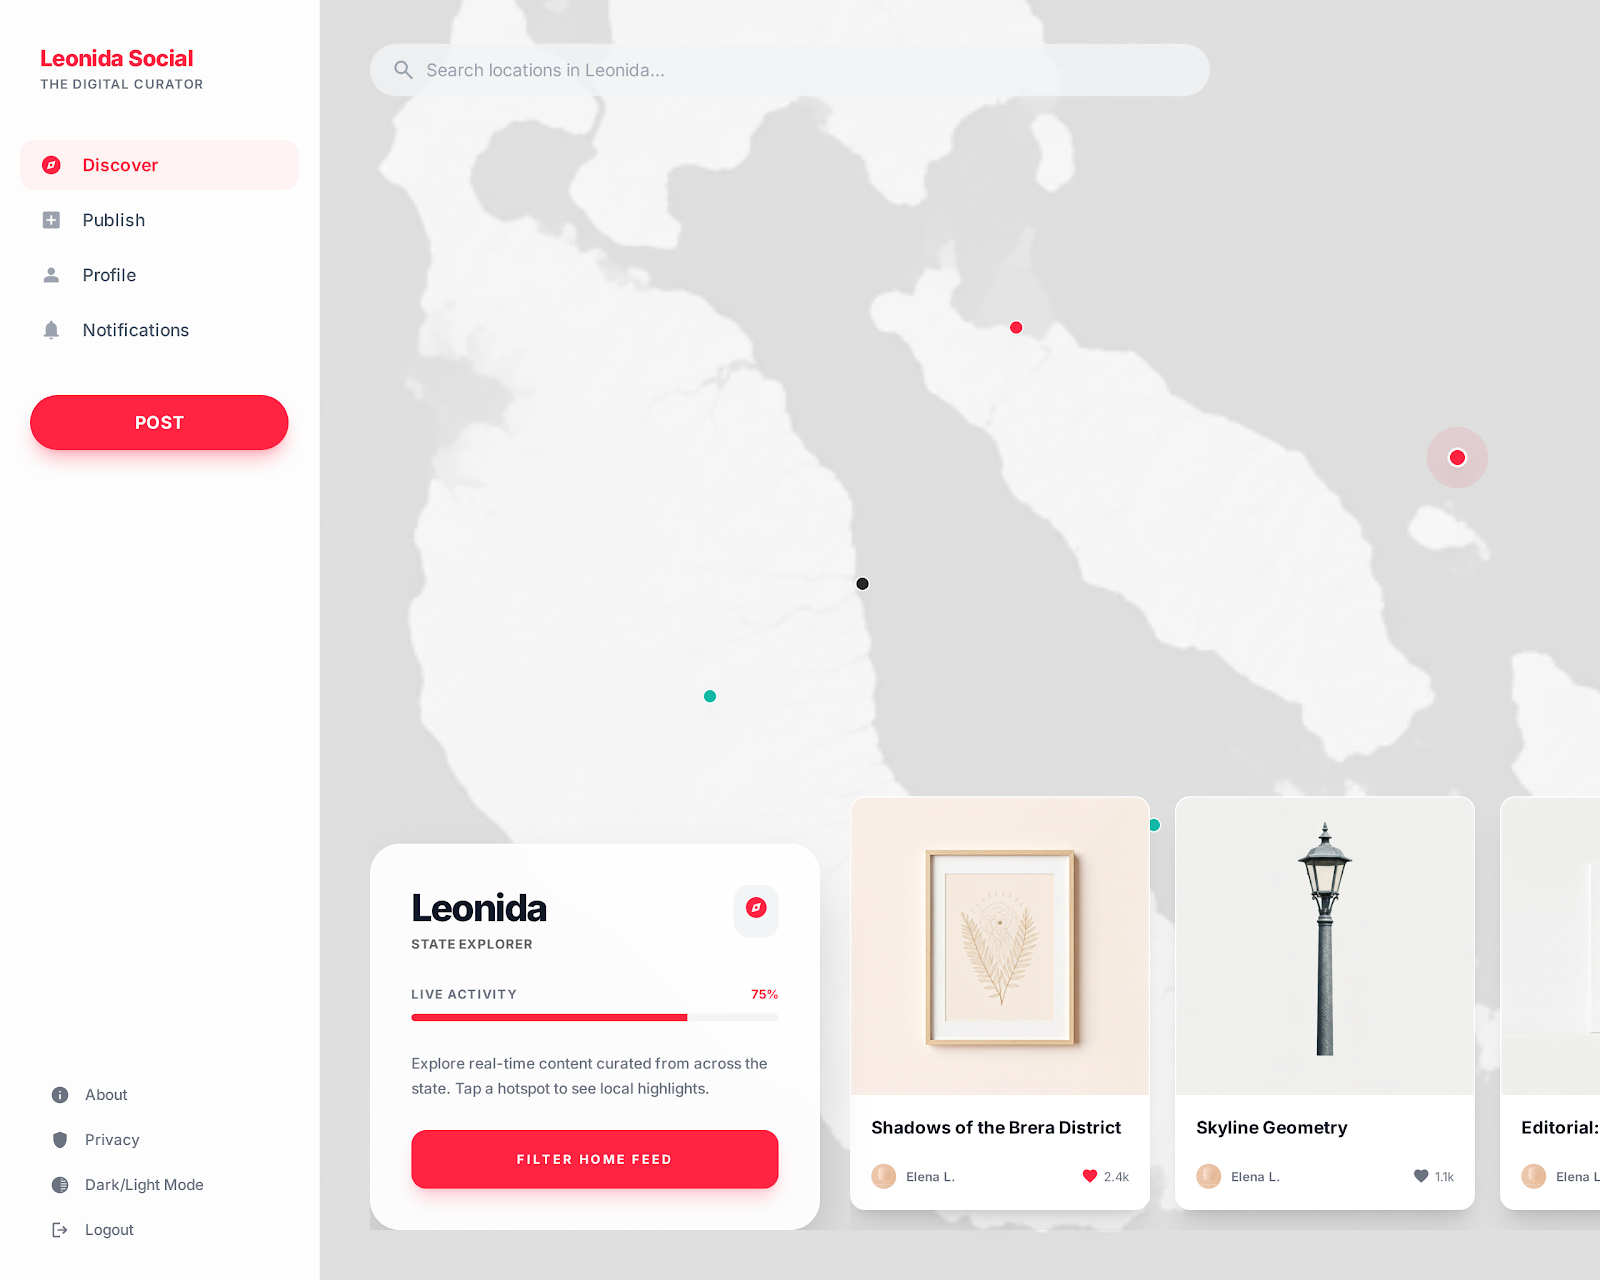
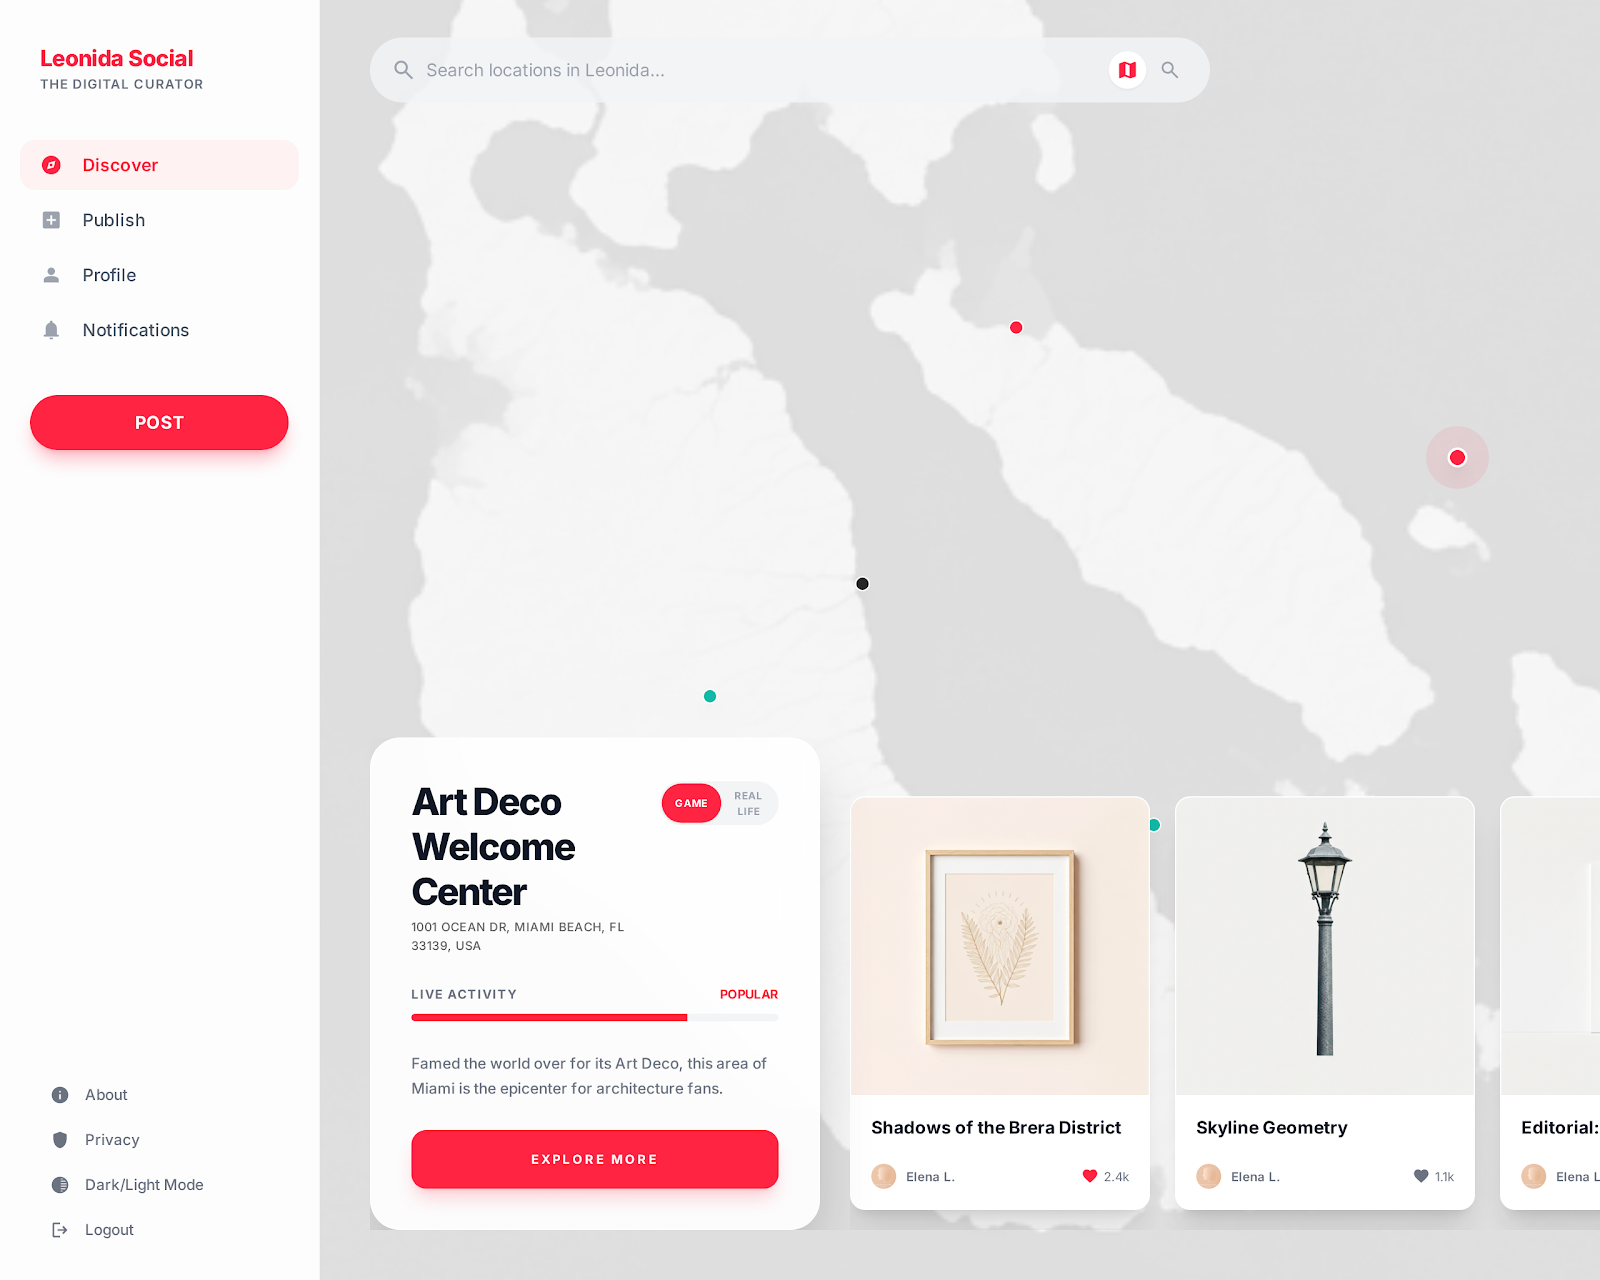
fix: use address field for location card grey text
- Add address field to MapLocation interface
- Update all location queries to fetch address
- Show address in grey text, description in paragraph
- Add address to MiniMapModule location object
- Migration 010 confirms address field exists in DB

diff --git a/stitch_gta6/location_explorer_fully_unified_layout/code.html b/stitch_gta6/location_explorer_fully_unified_layout/code.html
@@ -83,34 +83,60 @@
 </nav>
 <div class="mt-8 px-2">
 <button class="w-full bg-primary text-white rounded-full py-3 text-sm font-bold tracking-wide shadow-lg shadow-primary/30 hover:bg-red-600 transition-colors">
-                POST
-            </button>
+                    POST
+                </button>
 </div>
 <div class="mt-auto px-6 pb-8 space-y-5">
 <a class="flex items-center text-xs font-medium text-gray-500 dark:text-gray-400 hover:text-gray-800 dark:hover:text-gray-200 transition-colors" href="#">
 <span class="material-symbols-outlined text-[16px] mr-3">info</span> About
-            </a>
+                </a>
 <a class="flex items-center text-xs font-medium text-gray-500 dark:text-gray-400 hover:text-gray-800 dark:hover:text-gray-200 transition-colors" href="#">
 <span class="material-symbols-outlined text-[16px] mr-3">shield</span> Privacy
-            </a>
+                </a>
 <button class="flex items-center text-xs font-medium text-gray-500 dark:text-gray-400 hover:text-gray-800 dark:hover:text-gray-200 transition-colors w-full text-left" onclick="document.documentElement.classList.toggle('dark')">
 <span class="material-symbols-outlined text-[16px] mr-3">tonality</span> Dark/Light Mode
-            </button>
+                </button>
 <a class="flex items-center text-xs font-medium text-gray-500 dark:text-gray-400 hover:text-gray-800 dark:hover:text-gray-200 transition-colors" href="#">
 <span class="material-symbols-outlined text-[16px] mr-3">logout</span> Logout
-            </a>
+                </a>
 </div>
 </div>
 </aside>
 <!-- Main Content -->
 <main class="flex-1 flex flex-col relative h-full">
 <!-- Top Bar - Unified with SCREEN_26 -->
-<header class="h-28 flex items-center px-10 z-30">
+<header class="h-28 flex items-center px-10 z-30 justify-between">
 <div class="w-full max-w-2xl relative flex items-center bg-gray-100/80 dark:bg-surface-dark rounded-full px-4 py-2.5 border border-transparent dark:border-gray-800 focus-within:border-gray-300 dark:focus-within:border-gray-700 transition-colors">
 <span class="material-symbols-outlined text-gray-400 text-[20px] mr-2">search</span>
 <input class="bg-transparent border-none focus:ring-0 p-0 w-full text-sm text-gray-800 dark:text-gray-200 placeholder-gray-400 dark:placeholder-gray-500 outline-none" placeholder="Search locations in Leonida..." type="text"/>
+<div class="flex items-center gap-1 ml-2">
+<button class="p-1.5 rounded-full bg-white dark:bg-gray-700 shadow-sm text-primary flex items-center justify-center">
+<span class="material-symbols-outlined text-[18px]">map</span>
+</button>
+<button class="p-1.5 rounded-full text-gray-400 hover:text-gray-600 dark:hover:text-gray-200 flex items-center justify-center">
+<span class="material-symbols-outlined text-[18px]">search</span>
+</button>
+</div>
+</div>
+<div class="ml-auto flex items-center gap-4">
+<button class="w-10 h-10 rounded-full bg-gray-100/80 dark:bg-surface-dark flex items-center justify-center text-gray-500 hover:text-primary transition-colors">
+<span class="material-symbols-outlined">filter_list</span>
+</button>
 </div>
 </header>
+<!-- Vertical Map View Toggle - Moved to right side -->
+<div class="absolute top-[20%] right-10 z-30">
+<div class="flex flex-col p-1.5 bg-white/80 dark:bg-surface-dark/80 backdrop-blur-md rounded-full shadow-lg border border-white/40 dark:border-white/5 space-y-1">
+<button class="w-14 h-14 rounded-full flex flex-col items-center justify-center transition-all bg-primary text-white shadow-md">
+<span class="text-lg font-black leading-none tracking-tighter">VI</span>
+<span class="text-[8px] font-bold uppercase mt-0.5">Game</span>
+</button>
+<button class="w-14 h-14 rounded-full flex flex-col items-center justify-center transition-all text-gray-500 hover:bg-gray-100 dark:text-gray-400 dark:hover:bg-white/5">
+<span class="material-symbols-outlined text-[20px]">public</span>
+<span class="text-[8px] font-bold uppercase mt-0.5 leading-none">Real</span>
+</button>
+</div>
+</div>
 <!-- Map Canvas Area -->
 <div class="absolute inset-0 z-0 overflow-hidden bg-background-light dark:bg-background-dark">
 <div class="w-full h-full flex items-center justify-center opacity-40 dark:opacity-20 pointer-events-none scale-110 translate-y-[-10%]">
@@ -146,29 +172,26 @@
 <div class="pointer-events-auto bg-white/90 dark:bg-surface-dark/90 backdrop-blur-xl p-8 rounded-[1.5rem] shadow-2xl border border-white/40 dark:border-white/5 w-[360px] flex-shrink-0">
 <div class="flex justify-between items-start mb-6">
 <div>
-<h2 class="text-3xl font-extrabold tracking-tighter text-gray-900 dark:text-white">Leonida</h2>
-<p class="text-secondary text-[0.65rem] uppercase tracking-wider font-bold mt-1">State Explorer</p>
+<h2 class="text-3xl font-extrabold tracking-tighter text-gray-900 dark:text-white">Art Deco Welcome Center</h2>
+<p class="text-secondary text-[0.6rem] uppercase tracking-wide font-medium mt-1">1001 Ocean Dr, Miami Beach, FL 33139, USA</p>
 </div>
-<div class="bg-gray-100 dark:bg-white/5 p-2 rounded-xl">
-<span class="material-symbols-outlined text-primary text-[20px]">explore</span>
+<div class="flex p-0.5 bg-gray-100 dark:bg-white/10 rounded-full scale-90 origin-right">
+<button class="px-3 py-1 rounded-full text-[9px] font-bold uppercase tracking-wider bg-primary text-white shadow-sm">Game</button>
+<button class="px-3 py-1 rounded-full text-[9px] font-bold uppercase tracking-wider text-gray-400">Real Life</button>
 </div>
 </div>
 <div class="space-y-6">
 <div>
 <div class="flex justify-between items-center mb-2">
 <span class="text-[10px] font-bold text-gray-500 uppercase tracking-widest">Live Activity</span>
-<span class="text-[10px] font-bold text-primary">75%</span>
+<span class="text-[10px] font-bold text-primary">POPULAR</span>
 </div>
 <div class="h-1.5 w-full bg-gray-100 dark:bg-white/5 rounded-full overflow-hidden">
 <div class="h-full bg-primary w-[75%]"></div>
 </div>
 </div>
-<p class="text-xs leading-relaxed text-gray-500 dark:text-gray-400 font-medium">
-                        Explore real-time content curated from across the state. Tap a hotspot to see local highlights.
-                    </p>
-<button class="w-full py-4 bg-primary text-white rounded-xl font-bold uppercase text-[10px] tracking-[0.2em] shadow-lg shadow-primary/20 hover:bg-red-600 transition-all active:scale-[0.98]">
-                        Filter Home Feed
-                    </button>
+<p class="text-xs leading-relaxed text-gray-500 dark:text-gray-400 font-medium">Famed the world over for its Art Deco, this area of Miami is the epicenter for architecture fans.</p>
+<button class="w-full py-4 bg-primary text-white rounded-xl font-bold uppercase text-[10px] tracking-[0.2em] shadow-lg shadow-primary/20 hover:bg-red-600 transition-all active:scale-[0.98]">EXPLORE MORE</button>
 </div>
 </div>
 <!-- Post Previews - Exact copies from SCREEN_26 -->
@@ -239,8 +262,8 @@
 </div>
 </div>
 </div>
-<!-- Map Controls -->
-<div class="absolute right-10 top-1/2 -translate-y-1/2 flex flex-col gap-3 z-30">
+<!-- Map Zoom Controls -->
+<div class="absolute right-10 bottom-10 flex flex-col gap-3 z-30">
 <button class="w-12 h-12 bg-white/80 dark:bg-surface-dark/80 backdrop-blur-md rounded-full flex items-center justify-center text-gray-700 dark:text-white shadow-xl hover:bg-white transition-all active:scale-95 border border-white/40 dark:border-white/5">
 <span class="material-symbols-outlined">add</span>
 </button>

diff --git a/src/lib/locations.ts b/src/lib/locations.ts
@@ -9,6 +9,7 @@ export interface MapLocation {
   igY: number | null;
   rlLat: number | null;
   rlLng: number | null;
+  address: string | null;
   description: string | null;
   postCount: number;
 }
@@ -18,7 +19,7 @@ export async function getLocationsWithPosts(
 ): Promise<MapLocation[]> {
   const { data, error } = await client
     .from("locations")
-    .select("id, name, slug, category, ig_x, ig_y, rl_lat, rl_lng, description, post_count")
+    .select("id, name, slug, category, ig_x, ig_y, rl_lat, rl_lng, address, description, post_count")
     .gt("post_count", 0)
     .order("post_count", { ascending: false });
 
@@ -33,6 +34,7 @@ export async function getLocationsWithPosts(
     igY: row.ig_y,
     rlLat: row.rl_lat ?? null,
     rlLng: row.rl_lng ?? null,
+    address: row.address ?? null,
     description: row.description ?? null,
     postCount: row.post_count,
   }));
@@ -43,7 +45,7 @@ export async function getAllLocations(
 ): Promise<MapLocation[]> {
   const { data, error } = await client
     .from("locations")
-    .select("id, name, slug, category, ig_x, ig_y, rl_lat, rl_lng, description, post_count")
+    .select("id, name, slug, category, ig_x, ig_y, rl_lat, rl_lng, address, description, post_count")
     .order("name");
 
   if (error || !data) return [];
@@ -57,6 +59,7 @@ export async function getAllLocations(
     igY: row.ig_y,
     rlLat: row.rl_lat ?? null,
     rlLng: row.rl_lng ?? null,
+    address: row.address ?? null,
     description: row.description ?? null,
     postCount: row.post_count,
   }));
@@ -68,7 +71,7 @@ export async function getLocationBySlug(
 ): Promise<MapLocation | null> {
   const { data, error } = await client
     .from("locations")
-    .select("id, name, slug, category, ig_x, ig_y, rl_lat, rl_lng, description, post_count")
+    .select("id, name, slug, category, ig_x, ig_y, rl_lat, rl_lng, address, description, post_count")
     .eq("slug", slug)
     .single();
 
@@ -83,6 +86,7 @@ export async function getLocationBySlug(
     igY: data.ig_y,
     rlLat: data.rl_lat ?? null,
     rlLng: data.rl_lng ?? null,
+    address: data.address ?? null,
     description: data.description ?? null,
     postCount: data.post_count,
   };
@@ -94,7 +98,7 @@ export async function searchLocations(
 ): Promise<MapLocation[]> {
   const { data, error } = await client
     .from("locations")
-    .select("id, name, slug, category, ig_x, ig_y, rl_lat, rl_lng, description, post_count")
+    .select("id, name, slug, category, ig_x, ig_y, rl_lat, rl_lng, address, description, post_count")
     .ilike("name", `%${query}%`)
     .order("post_count", { ascending: false })
     .limit(10);
@@ -110,6 +114,7 @@ export async function searchLocations(
     igY: row.ig_y,
     rlLat: row.rl_lat ?? null,
     rlLng: row.rl_lng ?? null,
+    address: row.address ?? null,
     description: row.description ?? null,
     postCount: row.post_count,
   }));

diff --git a/src/components/MapLocationInfoCard.tsx b/src/components/MapLocationInfoCard.tsx
@@ -38,9 +38,11 @@ export function MapLocationInfoCard({ location }: MapLocationInfoCardProps) {
           <h2 className="text-3xl font-extrabold tracking-tighter text-gray-900 dark:text-white">
             {location.name}
           </h2>
-          <p className="text-secondary text-[0.6rem] uppercase tracking-wide font-medium mt-1">
-            Leonida, State of Florida
-          </p>
+          {location.address && (
+            <p className="text-secondary text-[0.6rem] uppercase tracking-wide font-medium mt-1">
+              {location.address}
+            </p>
+          )}
         </div>
         {showToggle && (
           <div className="flex p-0.5 bg-gray-100 dark:bg-white/10 rounded-full scale-90 origin-right">

diff --git a/src/components/MiniMapModule.tsx b/src/components/MiniMapModule.tsx
@@ -58,6 +58,7 @@ export function MiniMapModule({
         igY: igY ?? null,
         rlLat: rlLat ?? null,
         rlLng: rlLng ?? null,
+        address: null,
         description: null,
         postCount: 1,
       }]

diff --git a/stitch_gta6/location_explorer_fully_unified_layout/DESIGN.md b/stitch_gta6/location_explorer_fully_unified_layout/DESIGN.md
@@ -1,0 +1,91 @@
+# Design System Specification: Editorial Social
+
+## 1. Overview & Creative North Star
+The Creative North Star for this design system is **"The Digital Curator."** 
+
+Moving away from the cluttered, high-velocity aesthetic of traditional social media, this system treats user content as a gallery exhibition. It prioritizes white space, intentional asymmetry, and a "content-first" architecture. By leveraging high-contrast typography and tonal depth over rigid lines, we create a high-fidelity environment that feels less like a database and more like a premium digital lifestyle magazine.
+
+The experience is defined by a masonry-grid that breathes, avoiding the "boxed-in" feeling of standard social feeds. Elements should overlap slightly where appropriate, and transitions should feel fluid and organic.
+
+---
+
+## 2. Colors
+Our palette is rooted in professional neutrality, allowing the signature crimson accent to guide the user’s eye to primary actions.
+
+### The "No-Line" Rule
+**Strict Mandate:** Designers are prohibited from using 1px solid borders for sectioning or containment. Structural boundaries must be defined solely through background color shifts. Use `surface-container-low` for secondary sections sitting on a `surface` background. 
+
+### Surface Hierarchy & Nesting
+Depth is achieved through a "Layered Paper" philosophy. 
+- **Base Layer:** `surface` (#f9f9f9).
+- **Secondary Sections:** `surface-container-low` (#f3f3f3) for sidebars or secondary feeds.
+- **Floating Cards:** `surface-container-lowest` (#ffffff) to create a natural "lift" against a grey backdrop.
+- **Interactive Elements:** `surface-container-high` (#e8e8e8) for hover states.
+
+### The Glass & Gradient Rule
+To ensure the "premium" feel:
+- **Navigation/Search:** Use `surface_container_lowest` with 80% opacity and a `24px` backdrop-blur for floating headers.
+- **Primary CTAs:** Use a linear gradient from `primary` (#bb0028) to `primary_container` (#e80535) at a 135-degree angle to provide visual depth.
+
+---
+
+## 3. Typography
+We utilize **Inter** across all levels to maintain an English-language editorial authority that is both modern and highly readable.
+
+- **Display (LG/MD):** Used for large profile names or hero announcements. Letter-spacing should be set to `-0.02em` to feel tighter and more "custom."
+- **Headline & Title:** These are the anchors. `title-lg` is used for post captions within the masonry feed to ensure the user's "voice" carries weight.
+- **Body:** Standardized at `body-md` (#1a1c1c) for comments and descriptions, ensuring a high-contrast ratio against white surfaces.
+- **Labels:** Used for metadata (timestamps, location tags). These utilize `secondary` (#5f5e5e) to recede visually, keeping the focus on the content.
+
+---
+
+## 4. Elevation & Depth
+Elevation is expressed through **Tonal Layering** rather than structural shadows.
+
+- **The Layering Principle:** Instead of a drop shadow, a card (`surface-container-lowest`) gains its prominence by being placed on a `surface-container-low` background. 
+- **Ambient Shadows:** For high-priority modals or profile preview cards, use an "Ambient Lift":
+  - `box-shadow: 0 12px 32px -4px rgba(26, 28, 28, 0.06);`
+- **The "Ghost Border" Fallback:** If accessibility requires a container edge, use `outline_variant` (#e8bcbb) at **15% opacity**. Never use a 100% opaque border.
+- **Glassmorphism:** Navigation sidebars should feel integrated into the background. Use a subtle gradient from `surface` to `surface_variant` with 70% transparency to allow content to bleed through softly as the user scrolls.
+
+---
+
+## 5. Components
+
+### Masonry Cards
+- **Forbid:** Border lines or explicit dividers.
+- **Structure:** `xl` (1.5rem) rounded corners on images. Content padding follows the `4` (1rem) spacing scale.
+- **Interaction:** On hover, the card should scale slightly (1.02x) and the background shift to `surface_container_highest`.
+
+### Navigation Sidebar
+- **Layout:** Left-aligned. Icons use `secondary` (#5f5e5e) when inactive and `primary` (#bb0028) when active.
+- **Labels:** Use `title-sm` for nav items. Vertical spacing between items is `6` (1.5rem).
+
+### Primary Buttons
+- **Style:** Fully rounded (`9999px`). 
+- **Background:** Primary-to-Container gradient. 
+- **Typography:** `label-md` in `on_primary` (#ffffff), uppercase with `0.05em` tracking for a sophisticated, button-like feel.
+
+### Profile Preview Cards (Hover State)
+- **Design:** Floating `surface-container-lowest` card with a `xl` corner radius. 
+- **Details:** Features a mini-masonry grid of the user's last 3 posts. No lines between images; use `1` (0.25rem) gaps.
+
+### Search Bar
+- **Surface:** `surface_container_low`.
+- **Shape:** `full` (pill-shaped).
+- **Text:** `body-md` with `on_surface_variant` placeholder text.
+
+---
+
+## 6. Do's and Don'ts
+
+### Do
+- **Do** use asymmetrical spacing (e.g., more top padding than bottom) in header sections to create a "designed" editorial look.
+- **Do** use the `primary` accent color sparingly—only for conversion points like "Follow" buttons or active notification dots.
+- **Do** allow images in the masonry grid to have varying aspect ratios to maintain the "Xiaohongshu" vibe.
+
+### Don't
+- **Don't** use 1px black or grey borders. Use background tonal shifts.
+- **Don't** use standard Material Design drop shadows. Only use high-diffusion, low-opacity ambient shadows.
+- **Don't** use "GTA" high-saturation yellows or oranges. Stick to the professional neutral and signature crimson palette provided.
+- **Don't** use dividers inside lists. Use `spacing-5` (1.25rem) gaps to define list items.
